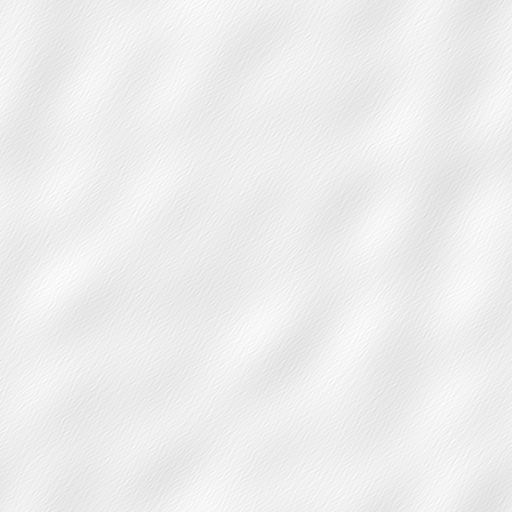
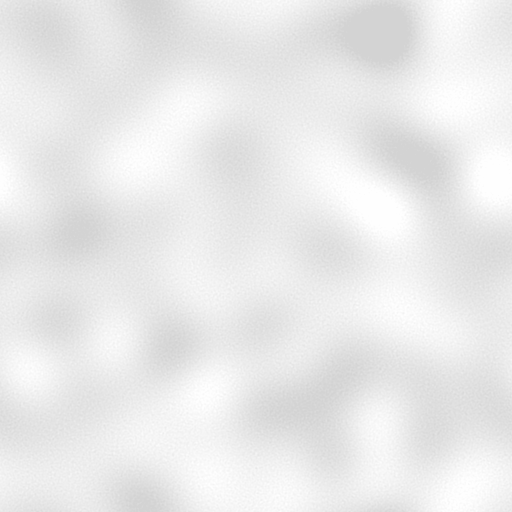
Replace diagonal fleet finish grain with restrained isotropic microrelief

diff --git a/tools/generate_ship_finish_maps.py b/tools/generate_ship_finish_maps.py
@@ -1,8 +1,8 @@
 """Bake the original seamless fleet paint finish (requires numpy and Pillow).
 
 Run from the repository root. These are analytic PBR channels, not image-derived
-normal maps: millimetre-scale paint grain and broad roughness variation share
-one height field. Hull seams and hardware belong to the model, not a tiled grid.
+normal maps: fine paint grain and broad roughness variation are deterministic
+seamless fields. Hull seams and hardware belong to the model, not a tiled grid.
 """
 from pathlib import Path
 import numpy as np
@@ -12,21 +12,33 @@ from PIL import Image
 def generate() -> None:
     size = 512
     rng = np.random.default_rng(81736)
-    y, x = np.mgrid[:size, :size].astype(np.float64) / size
-    coarse = np.zeros_like(x)
-    grain = np.zeros_like(x)
-    for field, low, high, count in [(coarse, 1, 7, 18), (grain, 35, 140, 64)]:
-        for _ in range(count):
-            fx, fy = rng.integers(low, high, 2)
-            field += np.sin(np.pi * 2 * (fx * x + fy * y) + rng.uniform(0, np.pi * 2))
-        field /= np.sqrt(count / 2)
-    height = grain * 0.035
+    # Filter white noise in frequency space, with the same radial response in
+    # every direction. Positive-only sinusoid frequencies produced diagonal
+    # striations that shimmered on oblique plates and read as brushed plastic.
+    frequencies = np.fft.fftfreq(size) * size
+    fy, fx = np.meshgrid(frequencies, frequencies, indexing="ij")
+    radius = np.hypot(fx, fy)
+
+    def noise(low: float, high: float) -> np.ndarray:
+        spectrum = np.fft.fft2(rng.standard_normal((size, size)))
+        envelope = np.exp(-0.5 * (radius / high) ** 4)
+        envelope *= 1.0 - np.exp(-0.5 * (radius / low) ** 4)
+        field = np.fft.ifft2(spectrum * envelope).real
+        return field / field.std()
+
+    coarse = noise(1.0, 5.0)
+    grain = noise(55.0, 170.0)
+    # Small, isotropic orange-peel relief. Broad variation belongs in the
+    # roughness channel, not displacement or fictitious repeating hull seams.
+    height = grain * 0.018
     dx = (np.roll(height, -1, axis=1) - np.roll(height, 1, axis=1)) * 0.5
     dy = (np.roll(height, -1, axis=0) - np.roll(height, 1, axis=0)) * 0.5
-    normal = np.stack((-dx, -dy, np.ones_like(x)), axis=-1)
+    normal = np.stack((-dx, -dy, np.ones_like(height)), axis=-1)
     normal /= np.linalg.norm(normal, axis=-1, keepdims=True)
-    albedo = np.clip(239 + coarse * 1.8 + grain * 0.65, 227, 247)
-    roughness = np.clip(238 + coarse * 4.0 + grain * 3.0, 218, 253)
+    albedo = np.clip(244 + coarse * 1.5 + grain * 0.45, 237, 250)
+    # Godot multiplies this linear channel by the caller's scalar roughness.
+    # Keep it near white so authored paint and metal finish separation survives.
+    roughness = np.clip(234 + coarse * 10.0 + grain * 2.0, 211, 254)
     target = Path("assets/materials")
     target.mkdir(parents=True, exist_ok=True)
     Image.fromarray(np.repeat(albedo[..., None], 3, axis=-1).astype(np.uint8)).save(target / "manufactured-paint-albedo.png")
